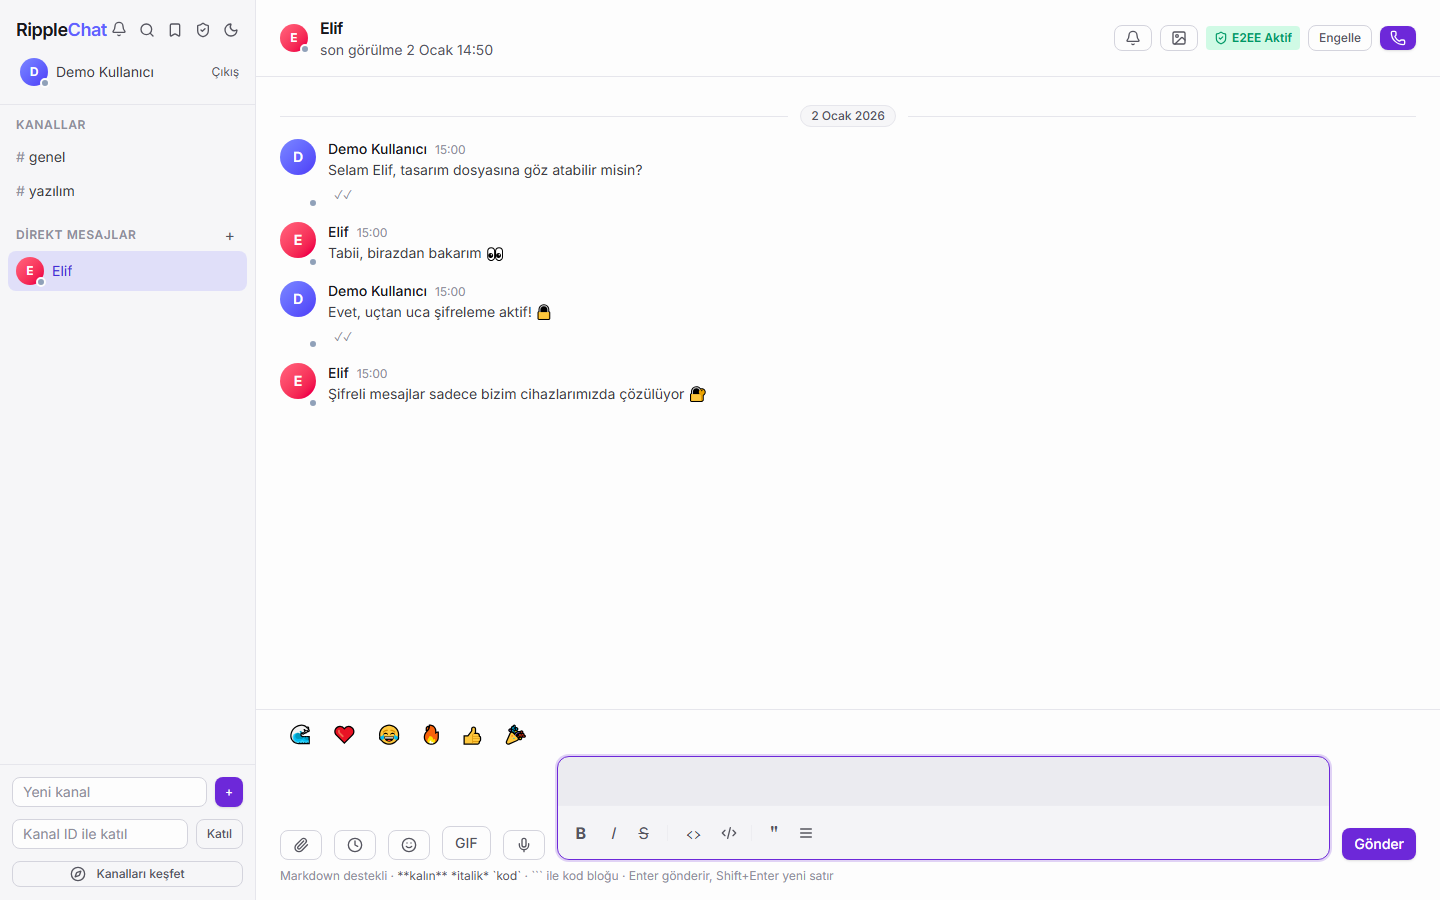
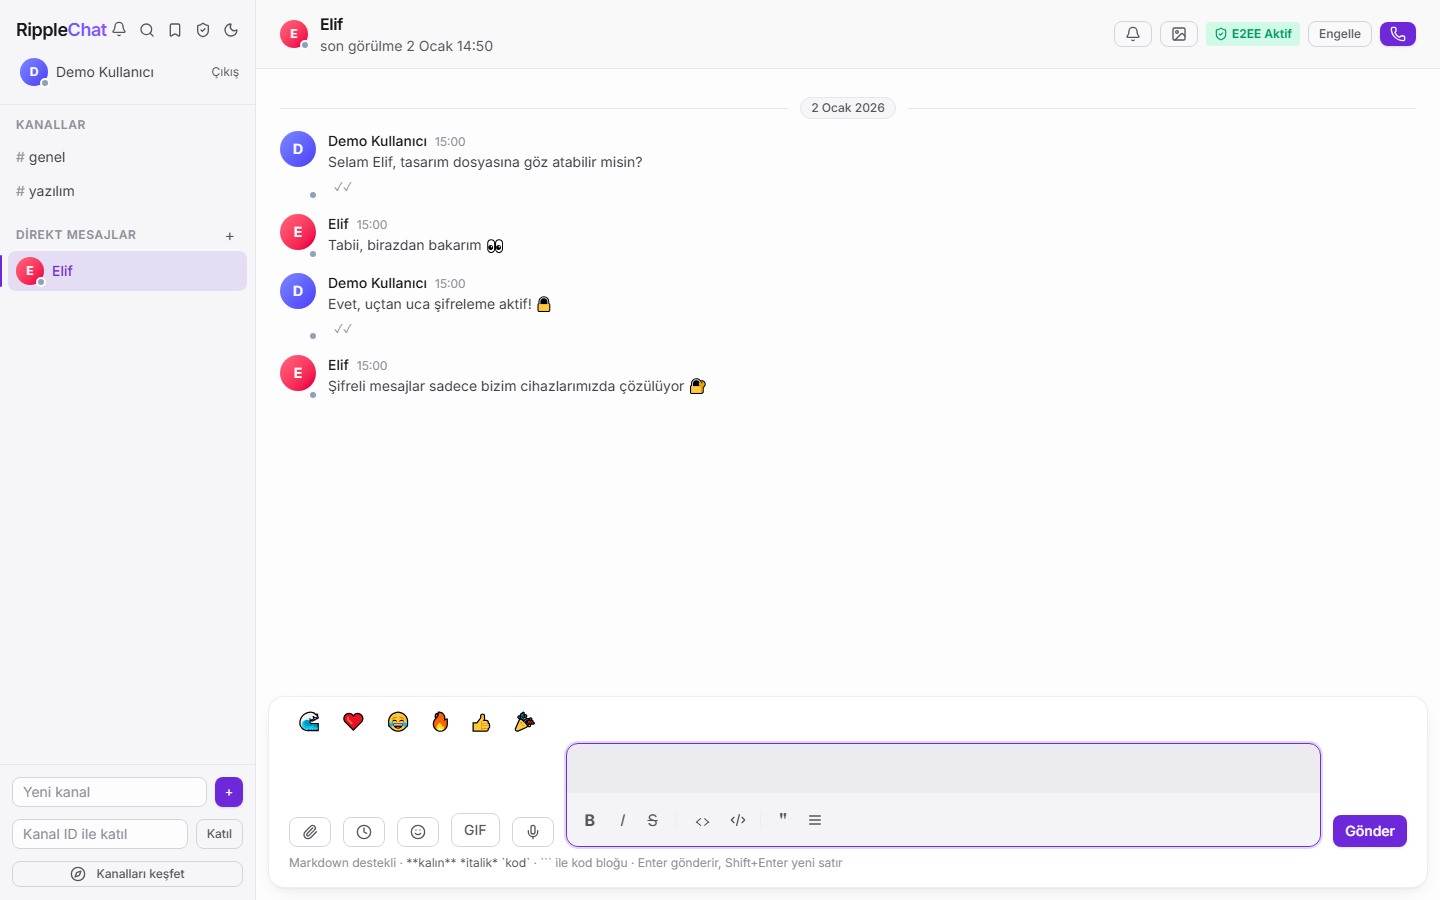
feat(frontend): app-shell refinements — floating glass composer, accent channel indicator
The composer detaches from the feed as a floating glass card, the
active channel gets an accent rail and tint instead of the flat indigo
fill, the sidebar wordmark picks up the brand gradient, and the channel
header sits on a soft raised tint. Screenshots, the landing product
shot and the social card follow the new shell.

diff --git a/frontend/src/components/Sidebar.tsx b/frontend/src/components/Sidebar.tsx
@@ -100,7 +100,7 @@ export default function Sidebar({ open, onClose }: SidebarProps) {
           }}
           className={`${focusRing} flex w-full items-center justify-between gap-2 rounded-lg px-2 py-1.5 text-left text-sm transition ${
             selectedId === channel.id
-              ? 'bg-indigo-500/15 text-indigo-700 dark:bg-indigo-500/20 dark:text-indigo-200'
+              ? 'relative bg-accent/12 font-medium text-accent before:absolute before:inset-y-1 before:-left-2 before:w-0.5 before:rounded-full before:bg-accent'
               : unread > 0
                 ? 'font-semibold text-fg hover:bg-surface-muted'
                 : 'text-fg-secondary hover:bg-surface-muted'
@@ -138,7 +138,7 @@ export default function Sidebar({ open, onClose }: SidebarProps) {
         <div className="border-b border-border px-4 py-4">
           <div className="flex items-center justify-between">
             <span className="text-lg font-semibold tracking-tight text-fg">
-              Ripple<span className="text-indigo-500 dark:text-indigo-400">Chat</span>
+              Ripple<span className="bg-gradient-to-r from-indigo-500 to-violet-500 bg-clip-text text-transparent">Chat</span>
             </span>
             <div className="flex items-center gap-1">
               <NotificationBell />
@@ -269,7 +269,7 @@ export default function Sidebar({ open, onClose }: SidebarProps) {
                     }}
                     className={`${focusRing} flex w-full items-center justify-between gap-2 rounded-lg px-2 py-1.5 text-left text-sm transition ${
                       selectedId === d.id
-                        ? 'bg-indigo-500/15 text-indigo-700 dark:bg-indigo-500/20 dark:text-indigo-200'
+                        ? 'relative bg-accent/12 font-medium text-accent before:absolute before:inset-y-1 before:-left-2 before:w-0.5 before:rounded-full before:bg-accent'
                         : unread > 0
                           ? 'font-semibold text-fg hover:bg-surface-muted'
                           : 'text-fg-secondary hover:bg-surface-muted'

diff --git a/frontend/src/components/channel/ChannelHeader.tsx b/frontend/src/components/channel/ChannelHeader.tsx
@@ -88,10 +88,8 @@ export default function ChannelHeader({
   const [showTtl, setShowTtl] = useState(false)
   const { t, lang } = useT()
   const locale = dateLocale(lang)
-  const borderC = 'border-border'
-
   return (
-    <header className={`flex items-center justify-between gap-3 border-b px-4 py-4 md:px-6 ${borderC}`}>
+    <header className="flex items-center justify-between gap-3 border-b border-border bg-surface-raised/60 px-4 py-3 md:px-6">
       <div className="flex min-w-0 items-center gap-3">
         <Button variant="secondary" size="sm" onClick={onOpenSidebar} className="shrink-0 md:hidden" title={t('chat.channels')}>
           <Menu className="h-4 w-4" aria-hidden />

diff --git a/frontend/src/components/channel/MessageComposer.tsx b/frontend/src/components/channel/MessageComposer.tsx
@@ -95,10 +95,9 @@ export default function MessageComposer({
     onSubmit()
   }
 
-  const borderC = 'border-border'
-
   return (
-    <div className={`border-t px-6 pb-4 pt-3 ${borderC}`}>
+    // Floating glass bar: the composer reads as its own layer above the feed.
+    <div className="glass mx-3 mb-3 rounded-2xl px-5 pb-4 pt-3 shadow-card">
       {showHints && <CommandHints prefix={draft.slice(1)} onPick={onPickCommand} />}
       {mentionQuery !== null && mentionCandidates.length > 0 && (
         <div className="mb-2 overflow-hidden rounded-lg border border-border bg-surface-overlay shadow-card">
